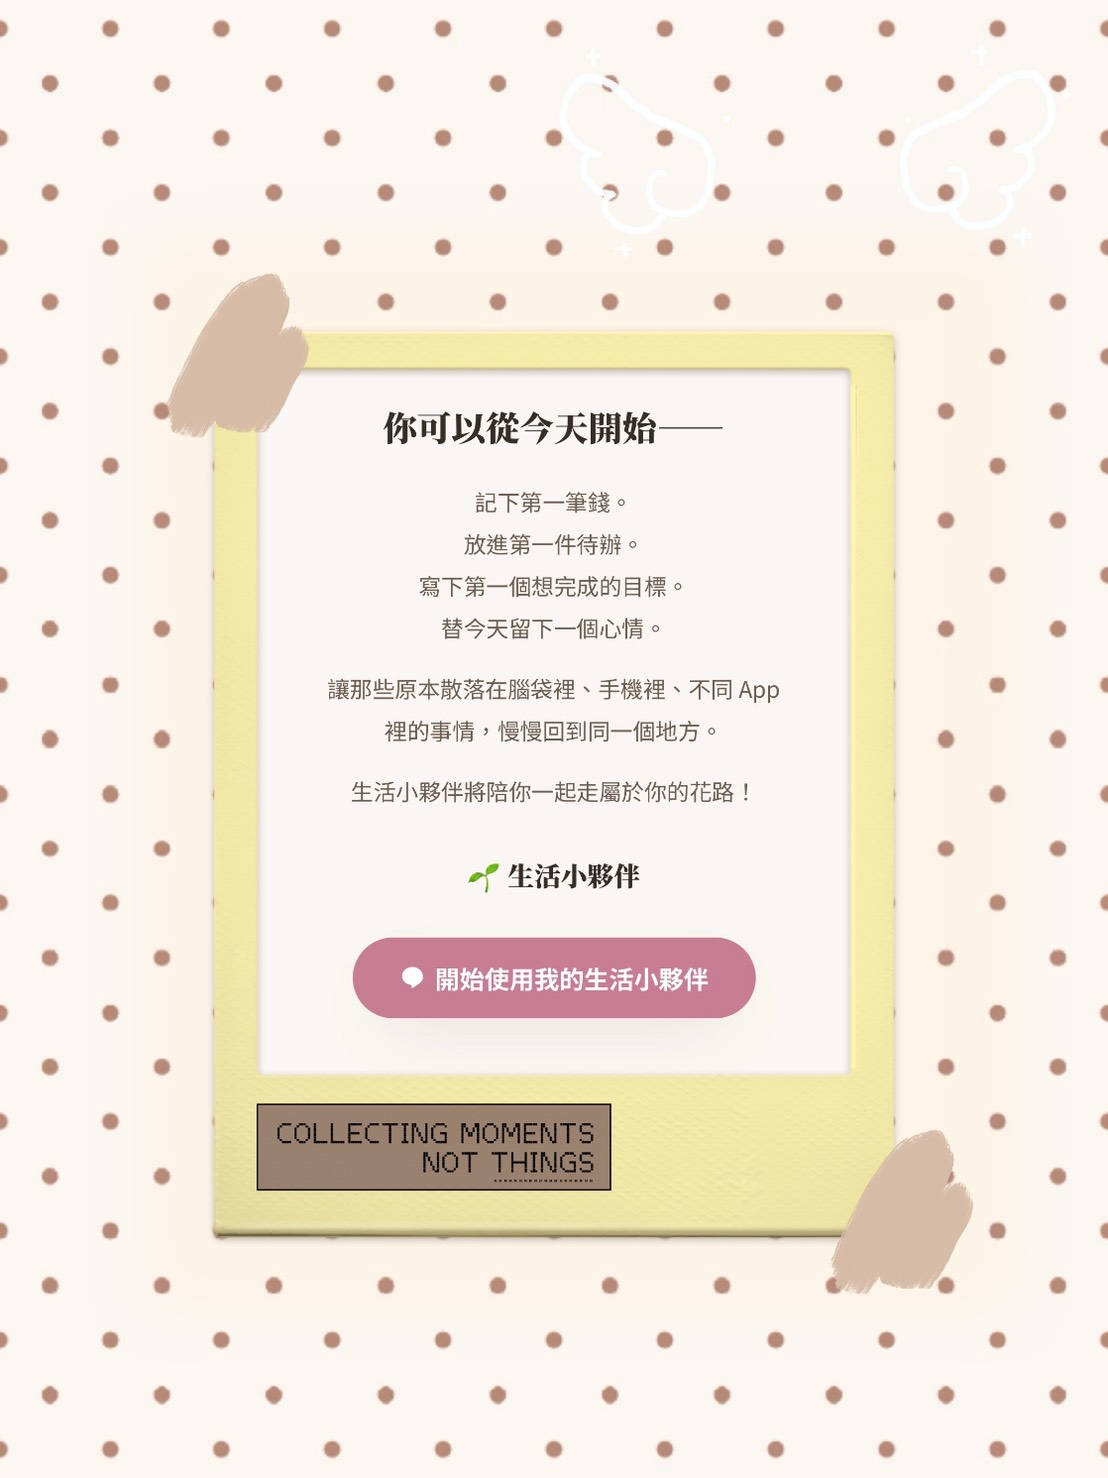
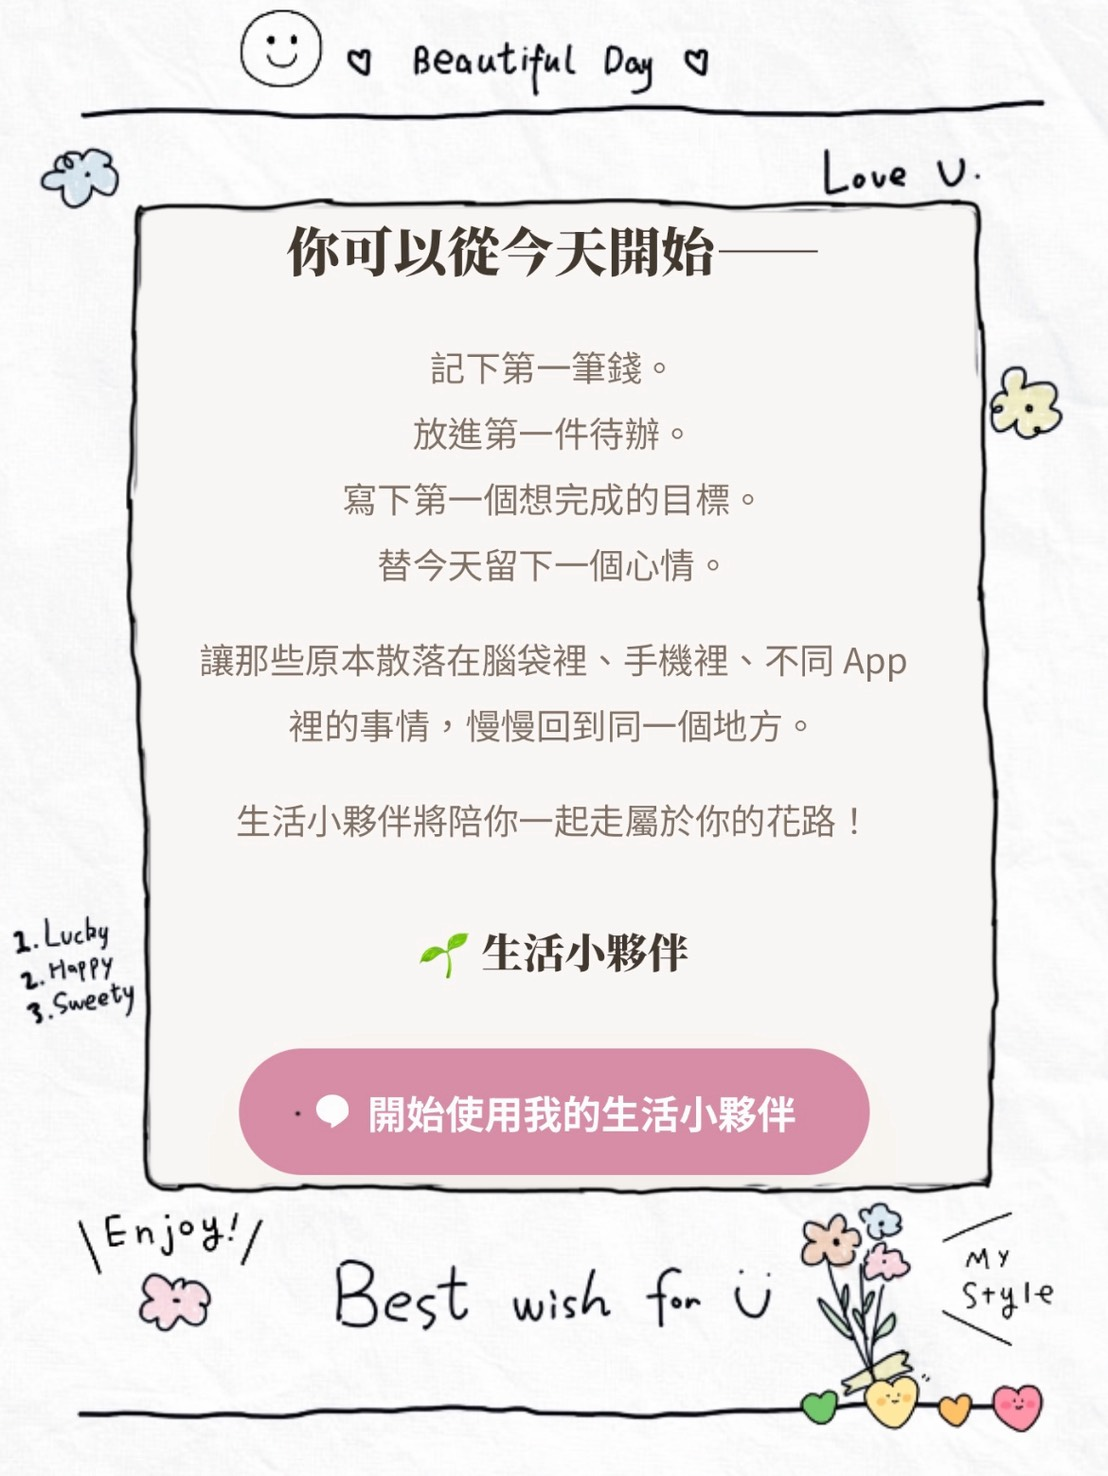
Replace closing CTA image with new hand-drawn design
Swap closer.png for the new doodle-style artwork and re-measure the
pink button's position/size in the new image, updating the
invisible link overlay's coordinates so it still links to LINE.

Claude-Session: https://claude.ai/code/session_01HASXpjPorS2wRhF6Eij8Rn

diff --git a/sales/index.html b/sales/index.html
@@ -213,7 +213,7 @@ header.top{
 .closer-media{ position:relative; max-width:600px; margin:0 auto; }
 .closer-media img{ width:100%; display:block; }
 .closer-media .cta-hit{
-  position:absolute; left:31.86%; top:63.46%; width:36.19%; height:5.35%;
+  position:absolute; left:23.29%; top:71.07%; width:53.43%; height:8.40%;
   display:block; border-radius:999px;
 }
 .closer-media .cta-hit span{ position:absolute; width:1px; height:1px; overflow:hidden; clip:rect(0,0,0,0); }
